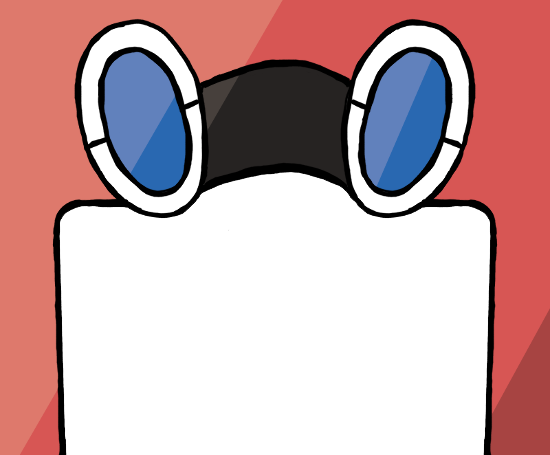
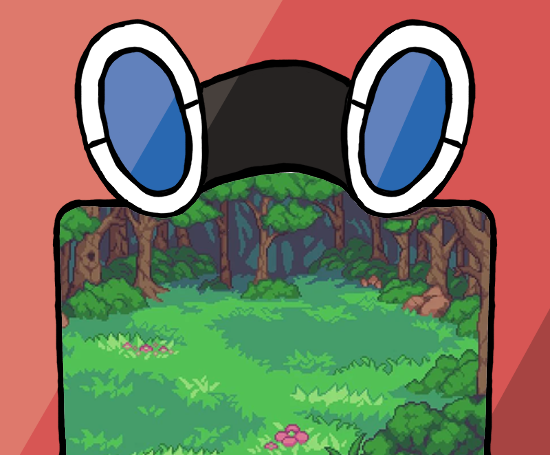
Add files via upload

diff --git a/style.css b/style.css
@@ -1,16 +1,20 @@
 body {
-    height: 100vh;
-    background-color: rgb(250, 71, 71);
+    /* O dvh se adapta dinamicamente quando a barra do celular aparece ou some */
+    height: 100dvh; 
+    
+    background-color: rgb(224, 101, 101);
     display: flex;
     justify-content: center;
     align-items: center;
+    font-family: sans-serif;
+    margin: 0;
 }
 
 #home {
-    background-color: rgb(255, 115, 115);
-    width: 400px;
+    background-color: rgb(253, 108, 108);
+    width: 800px;
     padding: 20px;
-    border-radius: 20px;
+    border-radius: 120px;
 
     display: flex;
     flex-direction: column;
@@ -18,9 +22,68 @@ body {
     gap: 15px;
 }
 
-#dex-img {
-    width: 250px;
+#home h1 {
+    font-family: 'Press Start 2P', monospace; /* Aplica a fonte Pixel Art */
+    font-size: 3.1rem;      /* Tamanho ajustado para fontes pixeladas */
+    color: #ffcb05;         /* Amarelo clássico do logo do Pokémon */
+    text-shadow: 
+        2px 2px 0px #3b4cca, /* Sombra azul clássica do logo */
+        -1px -1px 0px #3b4cca,
+        1px -1px 0px #3b4cca,
+        -1px 1px 0px #3b4cca;
+    text-align: center;
+    margin: 10px 0;
+    letter-spacing: -1px;   /* Junta um pouquinho as letras para dar estilo */
 }
+/* ========================================================
+   NOVO: Container que junta a Imagem da Pokédex e o Pokémon
+   ======================================================== */
+.pokedex-container {
+    position: relative; /* Isso cria a "âncora" para o posicionamento absoluto */
+    width: 600px;       /* Mesma largura que você definiu para a imagem */
+    height: auto;
+}
+
+/* Alterado de ID para classe/tag para herdar o tamanho do container */
+#dex-img {
+    width: 300%;
+    display: block;
+    border-radius: 50px;
+}
+
+/* ========================================================
+   NOVO: Caixa onde o JavaScript joga o Pokémon (Fica por cima)
+   ======================================================== */
+#resultado-pokemon {
+    position: absolute;
+    
+    /* Aumentei de 45% para 55% para descer mais o Pokémon */
+    top: 75%;    
+    left: 50%;   
+    transform: translate(-50%, -50%); /* Mantém centralizado enquanto desce */
+    
+    text-align: center;
+    width: 70%;  
+    
+    display: flex;
+    flex-direction: column;
+    align-items: center;
+}
+
+/* Estilo do Nome do Pokémon dentro da tela da Pokédex */
+#resultado-pokemon h2 {
+    font-size: 1rem;
+    margin: 0 0 5px 0;
+    color: #000; /* Defina a cor que contraste melhor com a tela do seu desenho */
+}
+
+/* Estilo da Foto do Pokémon dentro da tela da Pokédex */
+.pokemon-foto {
+    max-width: 90px; /* Ajuste se o Pokémon ficar muito grande ou pequeno na tela */
+    height: auto;
+}
+
+/* ======================================================== */
 
 .search {
     display: flex;
@@ -32,13 +95,21 @@ body {
 .search input {
     padding: 8px;
     width: 200px;
-    border-radius: 8px;
+    border-radius: 50px;
     border: none;
+    outline: none;
 }
 
 .search button {
     padding: 8px 15px;
     border: none;
-    border-radius: 8px;
+    border-radius: 50px;
     cursor: pointer;
+    background-color: #fff;
+    font-weight: bold;
+    transition: background 0.2s;
+}
+
+.search button:hover {
+    background-color: #e0e0e0;
 }

diff --git a/script.js b/script.js
@@ -1,0 +1,41 @@
+async function buscarpokemon() {
+    const pokemonInput = document.getElementById('pokemon-input').value.trim().toLowerCase();
+    const resultadoDiv = document.getElementById('resultado-pokemon');
+
+    // Limpa o resultado da busca anterior
+    resultadoDiv.innerHTML = '';
+
+    if (pokemonInput === '') {
+        alert('Por favor, digite o nome de um Pokémon!');
+        return;
+    }
+
+    try {
+        const resposta = await fetch(`https://pokeapi.co/api/v2/pokemon/${pokemonInput}`);
+        
+        if (!resposta.ok) {
+            throw new Error('Pokémon não encontrado');
+        }
+
+        const dadosPokemon = await resposta.json();
+        const nome = dadosPokemon.name;
+        
+        // 1. Tenta pegar o sprite animado (Geração 5 - Black/White)
+        let imagemUrl = dadosPokemon.sprites.versions['generation-v']['black-white'].animated.front_default;
+        
+        // 2. Se o Pokémon não tiver sprite animado (ex: Pokémons muito recentes), 
+        // ele usa a arte oficial que você já usava antes como plano B.
+        if (!imagemUrl) {
+            imagemUrl = dadosPokemon.sprites.other['official-artwork'].front_default;
+        }
+
+        // Coloca o conteúdo direto dentro da div que já está posicionada por cima da Pokédex
+        resultadoDiv.innerHTML = `
+            <h2 style="text-transform: capitalize; font-family: sans-serif;">${nome}</h2>
+            <img src="${imagemUrl}" alt="${nome}" class="pokemon-foto">
+        `;
+
+    } catch (erro) {
+        resultadoDiv.innerHTML = `<p style="color: red; font-weight: bold; font-family: sans-serif;">Não encontrado!</p>`;
+    }
+}

diff --git a/index.html b/index.html
@@ -8,14 +8,19 @@
 </head>
 <body>
     <div id="home">
-    <h1>Pokédex Brasil</h1>
+        <h1>Pokédex Brasil</h1>
 
-    <img src="./img/dex.png" id="dex-img">
+        <div class="pokedex-container">
+            <img src="./img/dex.png" id="dex-img">
+            <div id="resultado-pokemon"></div>
+        </div>
 
-    <div class="search">
-        <input type="text" id="pokemon-input" placeholder="Pokémon">
-        <button onclick="buscarPokemon()">Buscar</button>
+        <div class="search">
+            <input type="text" id="pokemon-input" placeholder="Ex: charizard-mega-x">
+            <button onclick="buscarpokemon()">Buscar</button>
+        </div>
     </div>
-</div>
+
+    <script src="./script.js"></script>
 </body>
 </html>
